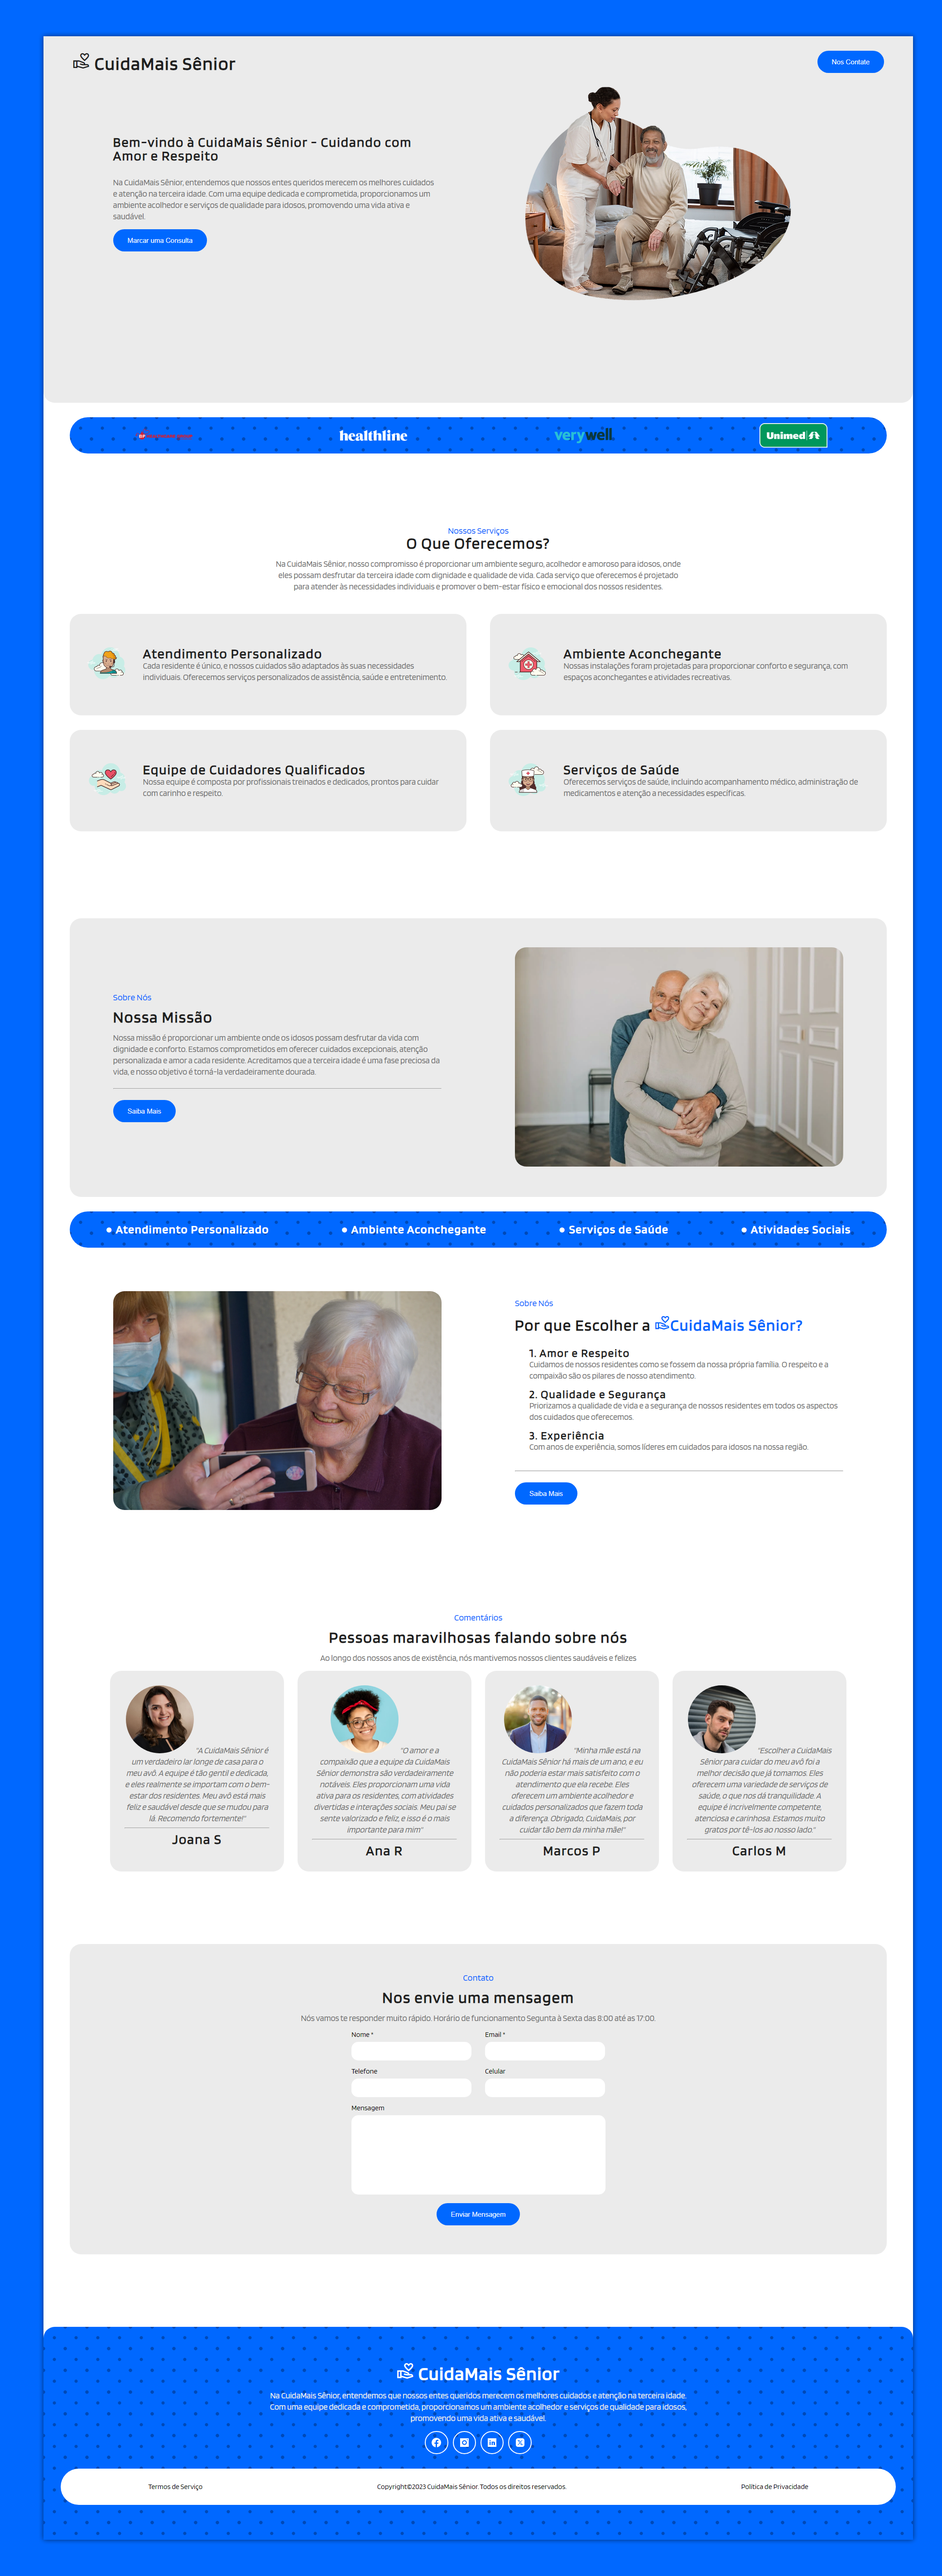
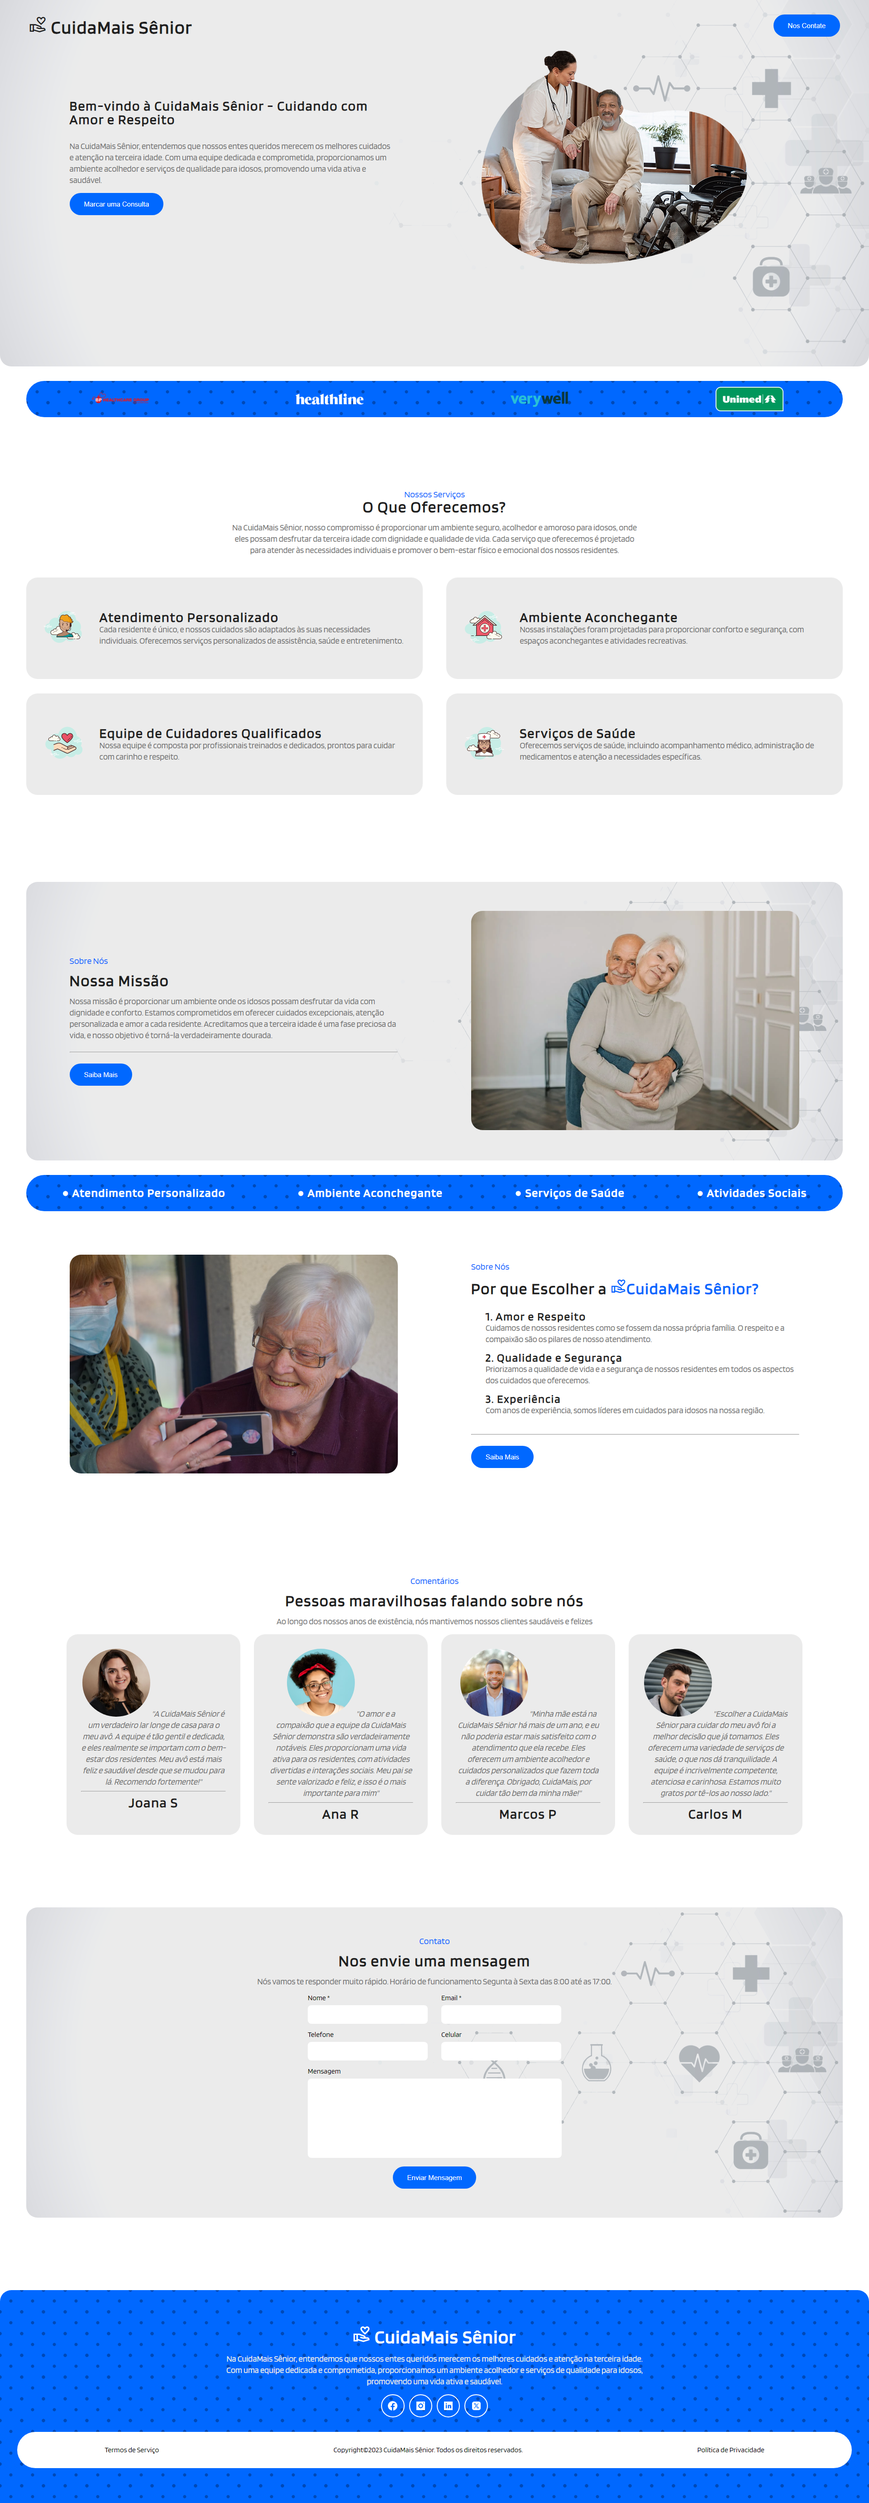
Ajuste no background de alguns containers

diff --git a/dist/style.css b/dist/style.css
@@ -90,7 +90,12 @@ label {
 .container-mid {
     border-radius: var(--boder-radius);
     padding: 4rem 6rem;
-    background: var(--neutral-medium);
+    background-image: url('./imgs/background.jpeg');
+    background-position: center;
+    background-size: cover;
+    background-repeat: no-repeat;
+    background-color: var(--neutral-medium);
+    background-blend-mode: darken;
     display: grid;
     grid-template-columns: 45% 45%;
     grid-column-gap: 10%;
@@ -144,7 +149,12 @@ header {
     border-bottom-right-radius: 25px;
     border-bottom-left-radius: 25px;
     padding: 2rem 4rem;
-    background: var(--neutral-medium);
+    background-image: url('./imgs/background.jpeg');
+    background-position: center;
+    background-size: cover;
+    background-repeat: no-repeat;
+    background-color: var(--neutral-medium);
+    background-blend-mode: darken;
 }
 
 .d-flex {
@@ -380,7 +390,7 @@ input,
 textarea {
     padding: 0.8rem 3rem;
     border: 0;
-    border-radius: 15px;
+    border-radius: 8px;
     outline: none;
     margin-top: 0.5rem;
     resize: none;
